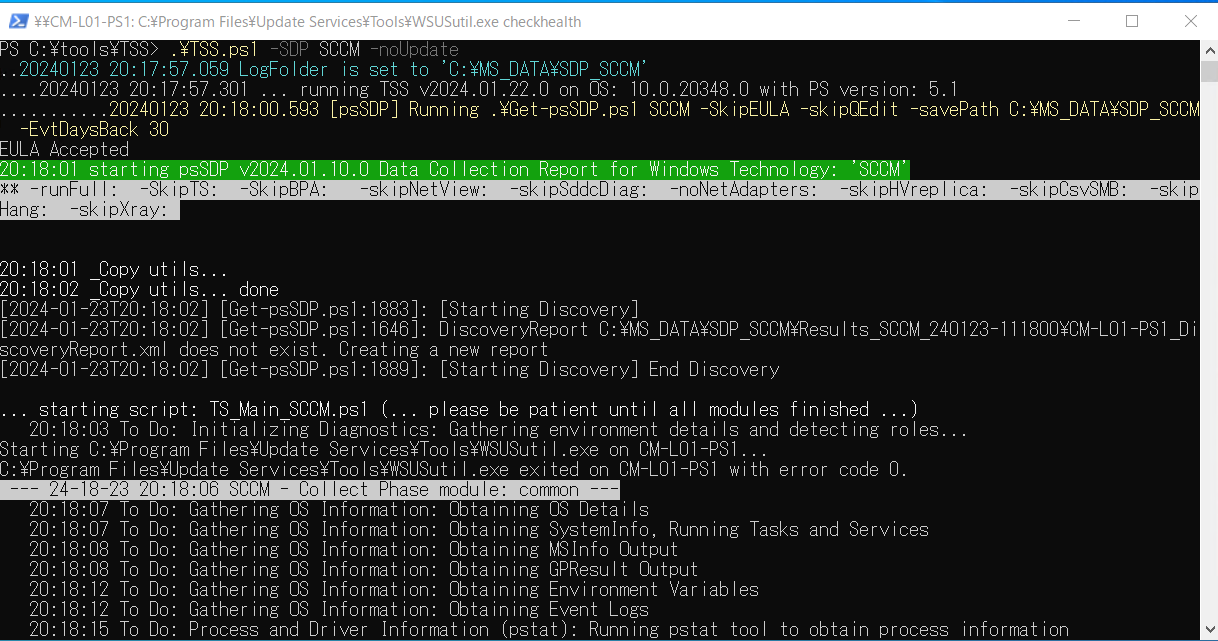
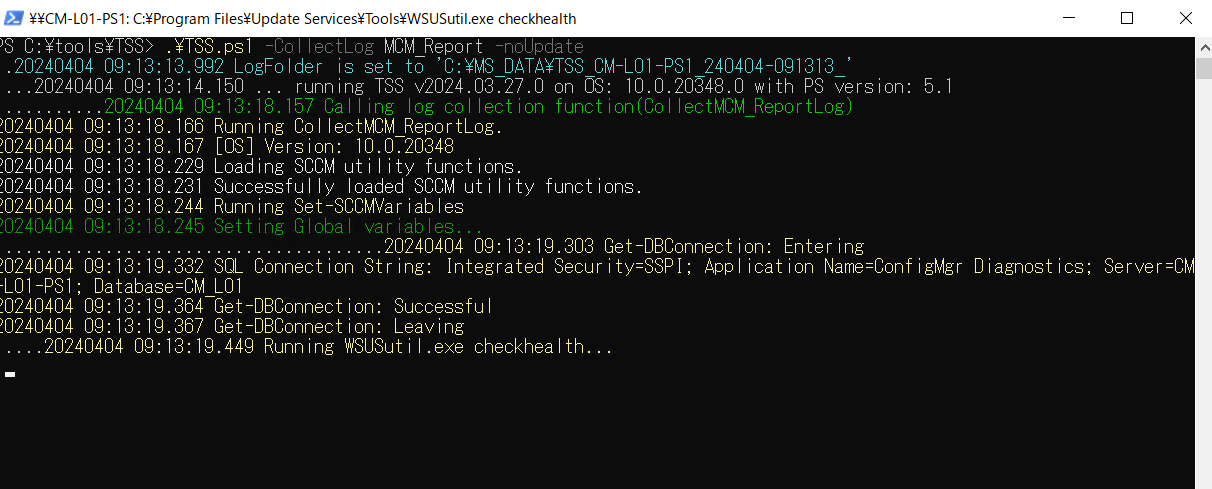
deploy: jpmem/memlog-pr@e24cf7d0889aab9ff651fa8db28b3ffb8f364c46

diff --git a/configmgr/initial/tss-configmgr.html b/configmgr/initial/tss-configmgr.html
@@ -168,9 +168,9 @@ function sidebar_toggle() {
 <ol start="7">
 <li><p>資料採取が始まりますので終了まで待ちます。<br><img src="./tss-configmgr/tss-configmgr06.png" alt="">  </p>
 </li>
-<li><p>“end of SDP data collection” と表示され、Powershell ウィンドウの操作が戻ってきたら収集完了です。<br><img src="./tss-configmgr/tss-configmgr07.png" alt="">  </p>
+<li><p>“==&gt; Please send C:\MS_DATA\～ to our MS upload site”と表示され、Powershell ウィンドウの操作が戻ってきたら収集完了です。<br><img src="./tss-configmgr/tss-configmgr07.png" alt="">  </p>
 </li>
-<li><p>採取した資料が 標準では以下のように [出力フォルダ指定先]\SDP_SCCM フォルダに作成されますので、こちらのフォルダをアーカイブ化して弊社までお寄せください。デフォルトでは C:\MS_DATA\SDP_SCCM フォルダとなります。</p>
+<li><p>採取した資料が 標準では以下のように [出力フォルダ指定先]\TSS_[ホスト名]_YYMMdd-HHmmss_Log-MCM_Report.log という名前で保存されますので弊社までお寄せください。</p>
 </li>
 </ol>
 <p><img src="./tss-configmgr/tss-configmgr08.png" alt="">  </p>
